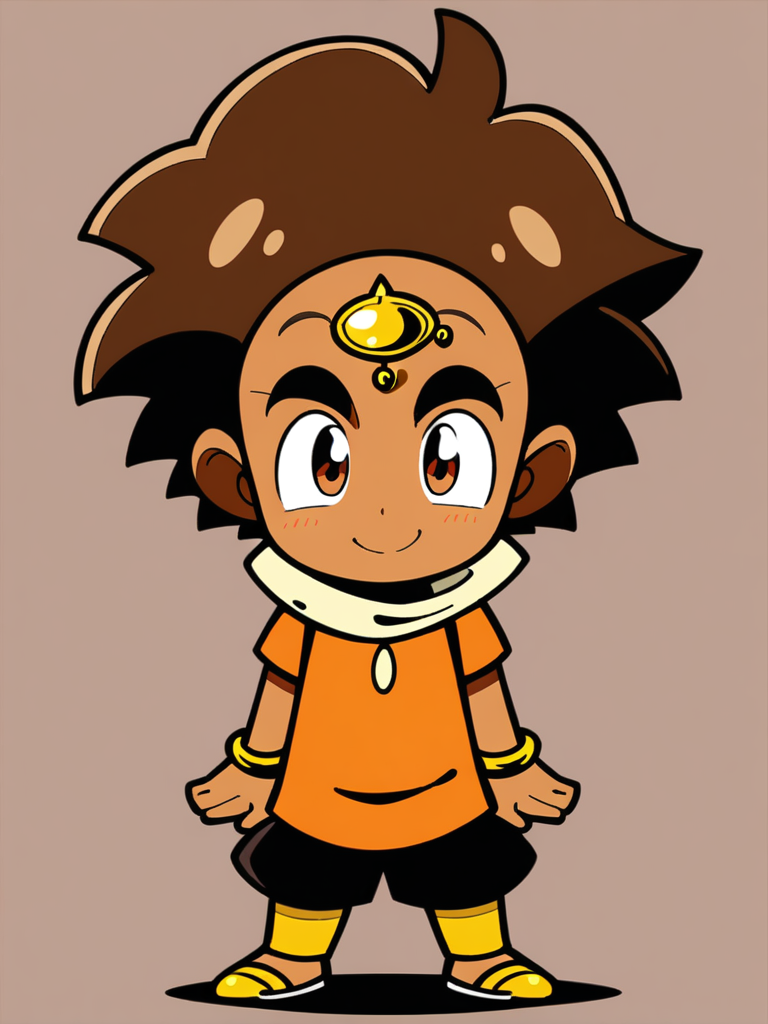
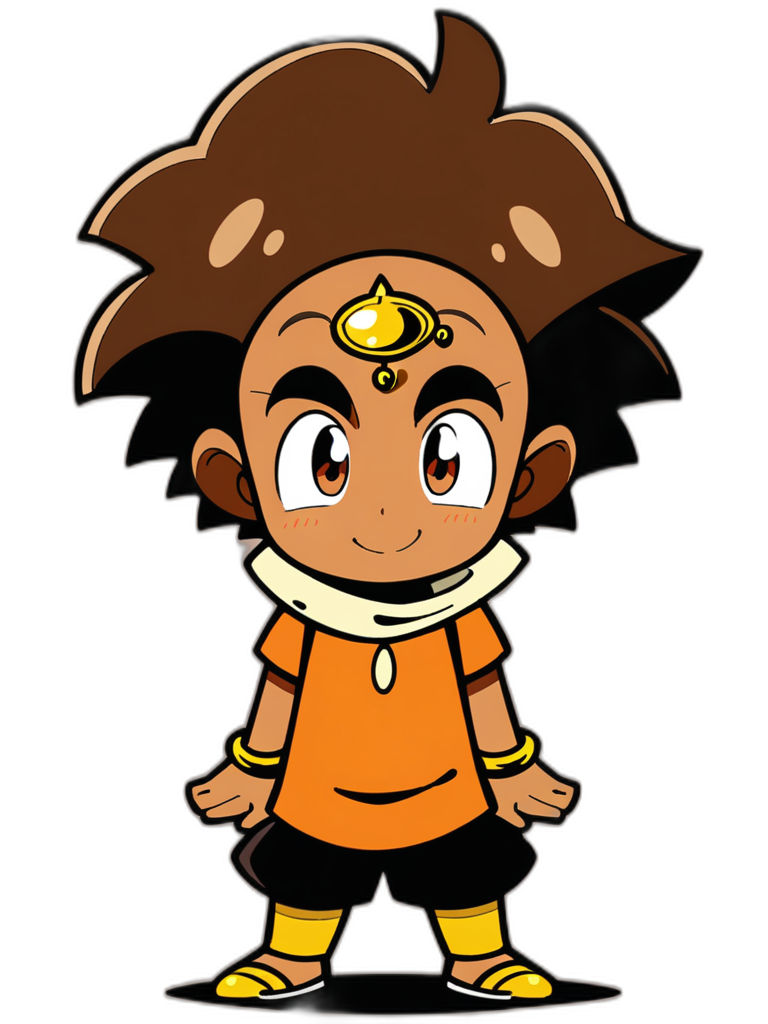
fix(visual): rembg-clean character PNGs, fix corrupt canonicals, add moti
- Ran rembg on all character pose PNGs (proper alpha channel).
- Replaced corrupted canonicals (arjun.png was Tux penguin clipart;
  guruji.png was a camera grid) with rembg'd idle_stand_happy.
- Generated moti (dog) from Pixabay illustration + rembg.
- Added EMERGENCY_FALLBACK in AICharacterRenderer: if a character has
  no manifest entry, return a known PNG instead of 404-ing the render.

Local render: 137s 1080p H.264 2.4 Mbps. Title card Devanagari renders.
Stock pine-forest+mountain plates active. Real chibi-anime characters
(arjun, bablu, guruji, kaaliya, meera, amma, raja, moti) on screen.

Score progression (16-expert visual audit on rendered MP4):
  v0 (M5):  2.5/10 — SVG puppets, tofu title, flat bg
  v1 (M6.1):  ~4/10 — penguin canonical bug, rainbow card BGs
  v2 (this): ~5.5-6/10 — real characters, residue still present

Remaining gaps to 10/10: isnet-anime rembg pass, ground-contact shadow,
multi-shot coverage, village/palace stock plates, guruji edge cleanup.

diff --git a/src/characters/AICharacterRenderer.tsx b/src/characters/AICharacterRenderer.tsx
@@ -25,6 +25,10 @@ interface AICharacterRendererProps {
 type ManifestEntry = { poses: Record<string, string[]>; canonical: string | null };
 const MANIFEST = manifestJson as Record<string, ManifestEntry>;
 
+// Ultimate emergency fallback if a character has no asset whatsoever — keeps
+// the render unblocked instead of 404-ing. Points to a known-existing PNG.
+const EMERGENCY_FALLBACK = 'characters/arjun/arjun.png';
+
 // Map unavailable poses to closest available pose (semantic neighbours)
 const POSE_FALLBACK: Record<string, string> = {
   idle_sit: 'idle_stand',
@@ -49,9 +53,10 @@ const EXPR_FALLBACK: Record<string, string[]> = {
 // Returns the relative path (under public/) that should be passed to staticFile.
 export function resolveAssetPath(characterId: string, pose: string, expression: string): string {
   const entry = MANIFEST[characterId];
-  if (!entry) {
-    // Last resort: hope for canonical
-    return `characters/${characterId}/${characterId}.png`;
+  if (!entry || (Object.keys(entry.poses).length === 0 && !entry.canonical)) {
+    // No manifest data: try canonical naming convention, but if nothing,
+    // we'd 404. Caller should treat empty entry as emergency.
+    if (!entry) return EMERGENCY_FALLBACK;
   }
 
   // 1) try exact (pose, expression)
